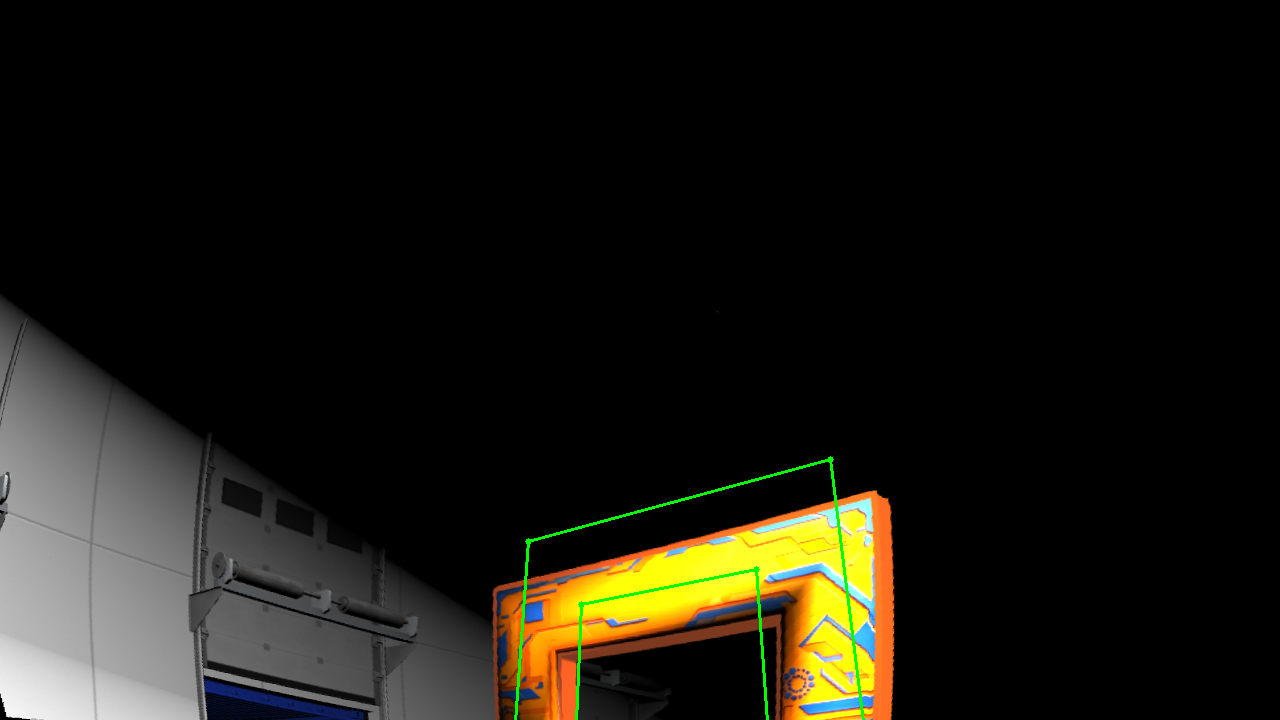
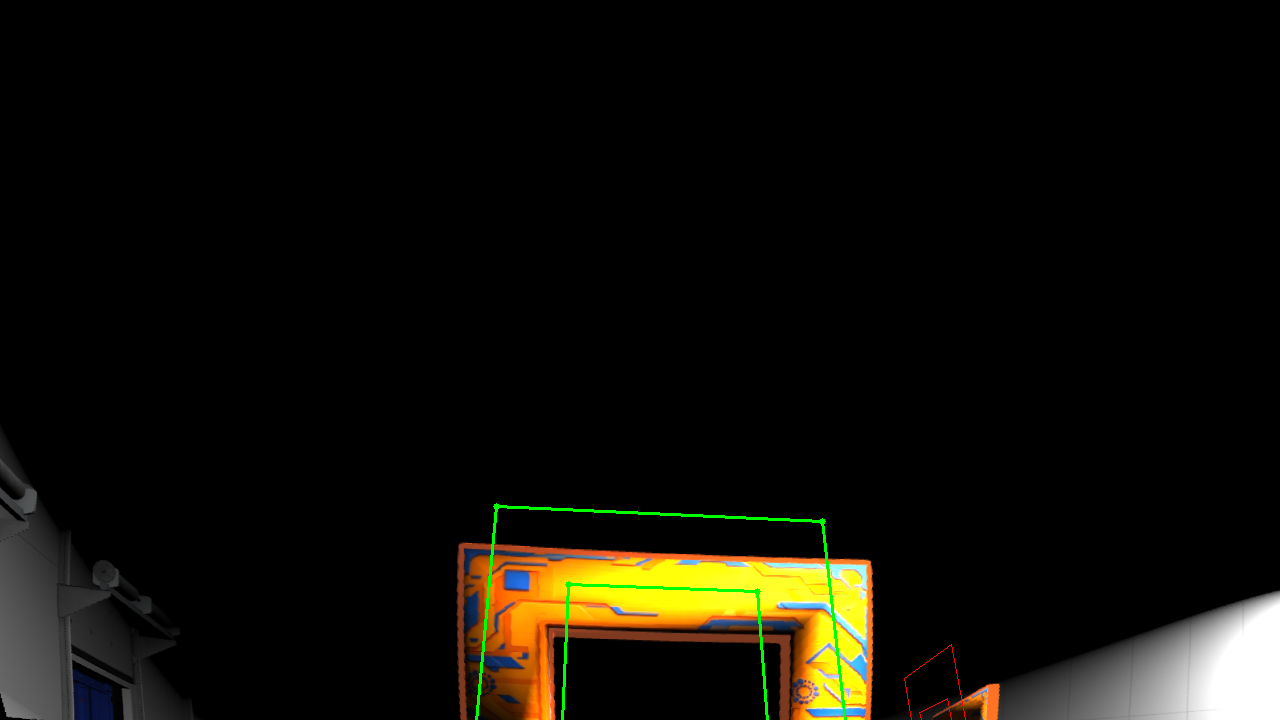
turning off gravity and still debugging incorrect keypoint projections

Changed region(s): [[0.0, 0.3972, 1.0, 1.0]]

diff --git a/point_label_rand_test.py b/point_label_rand_test.py
@@ -56,6 +56,8 @@ class GateVisualTester(Node):
 
     def img_cb(self, msg):
         self.latest_msg = msg
+        if self.latest_odom is not None:
+            self.odom_at_image = self.latest_odom.copy()
 
     def odom_cb(self, msg):
         """Store latest odometry data with timestamp"""
@@ -235,6 +237,11 @@ class GateVisualTester(Node):
             target_img_msg = self.latest_msg
             img = self.bridge.imgmsg_to_cv2(target_img_msg, 'bgr8')
 
+            # image_pose = self.odom_at_image
+
+            # print("Pose returned by teleport:", pose_data)
+            # print("Pose when image callback ran:", image_pose)
+
             # --- 6. Projection math (same as before) ---
             t_wb = np.array([pos['x'], pos['y'], pos['z']])
             R_wb = R.from_quat([quat['x'], quat['y'], quat['z'], quat['w']]).as_matrix()
@@ -267,6 +274,7 @@ class GateVisualTester(Node):
                 world_pts = (r_gate_mat @ local_pts.T).T + np.array(g['pose'][:3])
 
                 pts_in_cam = (R_cw @ world_pts.T).T + t_cw.flatten()
+                
                 if np.any(pts_in_cam[:, 2] < 0.2):
                     continue
                 
@@ -276,16 +284,6 @@ class GateVisualTester(Node):
                 img_pts = img_pts.reshape(-1, 2)
                 pixels = [(int(round(pt[0])), int(round(pt[1]))) for pt in img_pts]
 
-                # if is_target:
-                #     color = (0, 255, 0)
-                #     for j in range(len(pixels)):
-                #         cv2.line(img, pixels[j], pixels[(j + 1) % len(pixels)], color, 2)
-                #         cv2.circle(img, pixels[j], 3, color, -1)
-                # else:
-                #     if any(0 <= p[0] < w and 0 <= p[1] < h for p in pixels):
-                #         color = (0, 0, 255)
-                #         for j in range(len(pixels)):
-                #             cv2.line(img, pixels[j], pixels[(j + 1) % len(pixels)], color, 1)
                 if is_target:
                     color = (0, 255, 0)
                     thickness = 2
